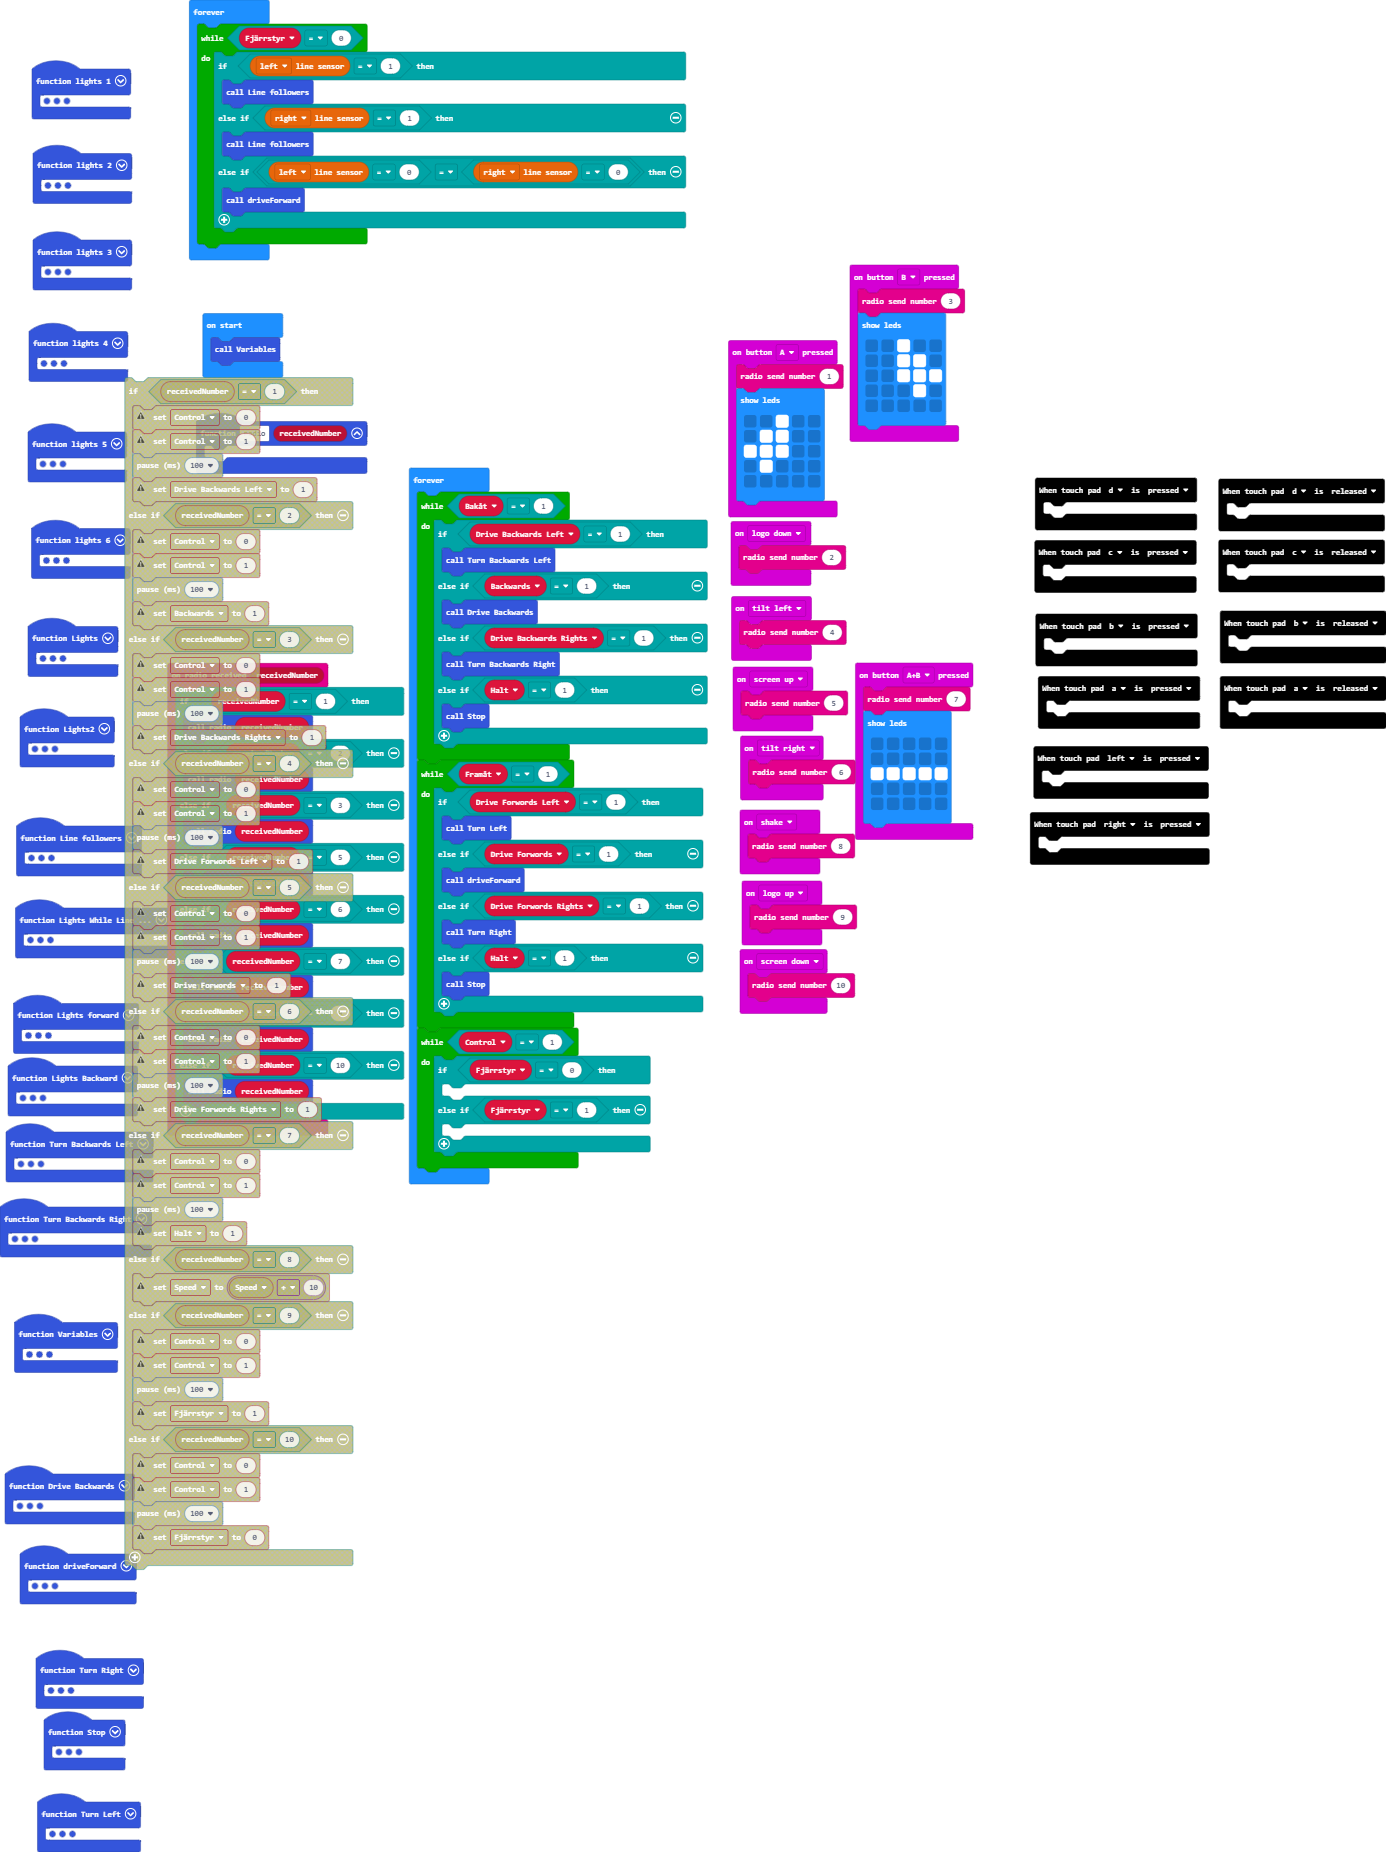
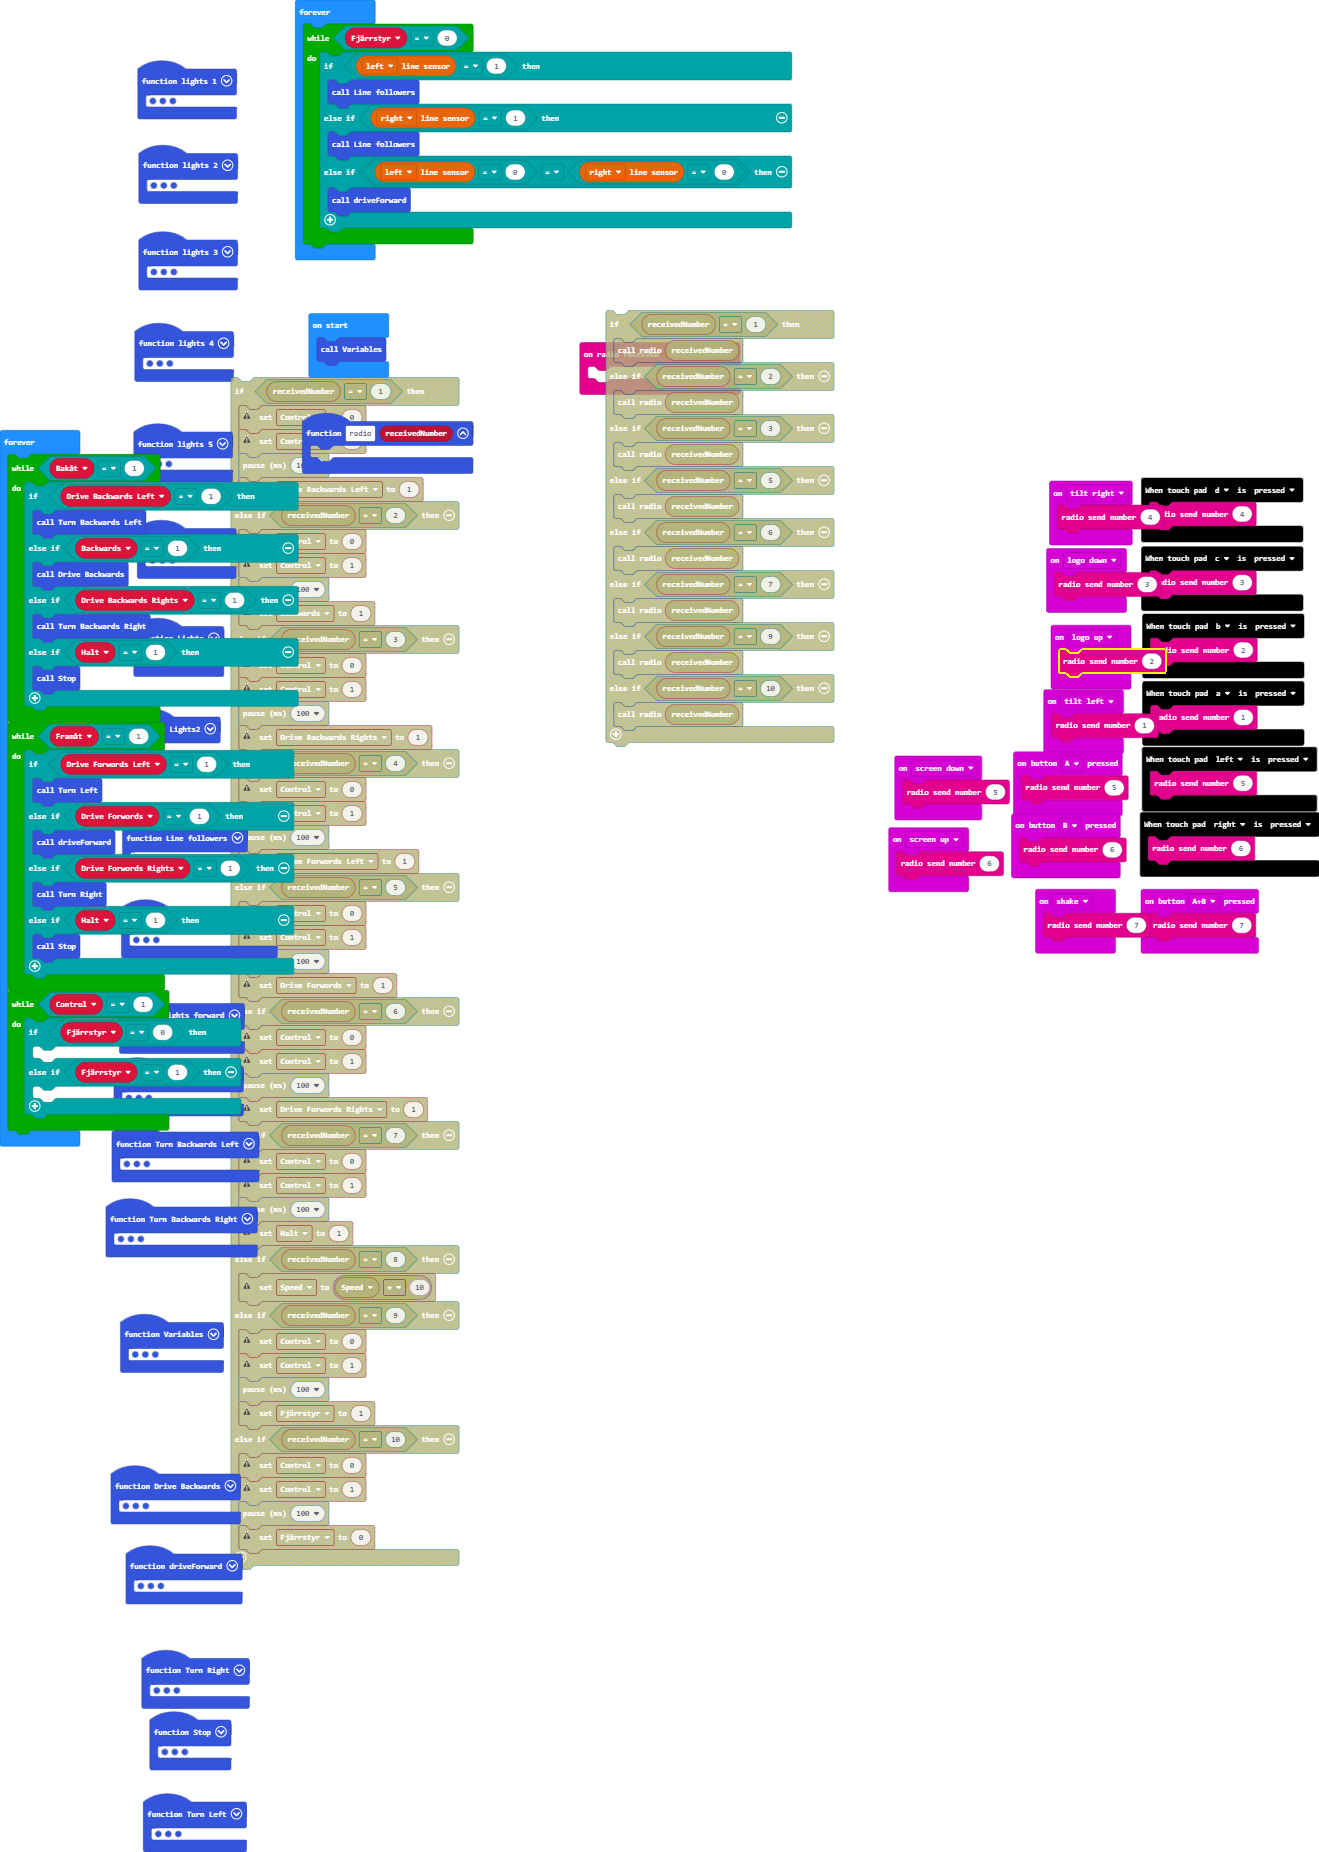
fjärrsyr klar

diff --git a/main.ts b/main.ts
@@ -50,23 +50,7 @@ function lights_6 () {
     bitbot.ledClear()
 }
 radio.onReceivedNumber(function (receivedNumber) {
-    if (receivedNumber == 1) {
-        radio2(receivedNumber)
-    } else if (receivedNumber == 2) {
-        radio2(receivedNumber)
-    } else if (receivedNumber == 3) {
-        radio2(receivedNumber)
-    } else if (receivedNumber == 5) {
-        radio2(receivedNumber)
-    } else if (receivedNumber == 6) {
-        radio2(receivedNumber)
-    } else if (receivedNumber == 7) {
-        radio2(receivedNumber)
-    } else if (receivedNumber == 9) {
-        radio2(receivedNumber)
-    } else if (receivedNumber == 10) {
-        radio2(receivedNumber)
-    }
+	
 })
 function lights_1 () {
     bitbot.setPixelColor(0, 0x659900)
@@ -75,7 +59,7 @@ function lights_1 () {
     bitbot.ledClear()
 }
 touchbit.on(touchbit.TouchPad.b, touchbit.TouchEvent.pressed, function () {
-	
+    radio.sendNumber(2)
 })
 function Lights_Backward () {
     for (let index = 0; index < 2; index++) {
@@ -99,18 +83,8 @@ function lights_3 () {
     basic.pause(200)
     bitbot.ledClear()
 }
-touchbit.on(touchbit.TouchPad.c, touchbit.TouchEvent.released, function () {
-	
-})
 input.onButtonPressed(Button.A, function () {
-    radio.sendNumber(1)
-    basic.showLeds(`
-        . . # . .
-        . # # . .
-        # # # . .
-        . # . . .
-        . . . . .
-        `)
+    radio.sendNumber(5)
 })
 function Line_followers () {
     for (let index = 0; index < 1e+103; index++) {
@@ -126,7 +100,7 @@ function Line_followers () {
     }
 }
 input.onGesture(Gesture.LogoUp, function () {
-    radio.sendNumber(9)
+    radio.sendNumber(2)
 })
 function Lights () {
     lights_1()
@@ -158,10 +132,10 @@ function Turn_Left () {
     bitbot.stop(BBStopMode.Brake)
 }
 touchbit.on(touchbit.TouchPad.d, touchbit.TouchEvent.pressed, function () {
-	
+    radio.sendNumber(4)
 })
 input.onGesture(Gesture.TiltLeft, function () {
-    radio.sendNumber(4)
+    radio.sendNumber(1)
 })
 function Lights2 () {
     lights_6()
@@ -172,32 +146,25 @@ function Lights2 () {
     lights_1()
 }
 input.onGesture(Gesture.ScreenUp, function () {
-    radio.sendNumber(5)
+    radio.sendNumber(6)
 })
 touchbit.on(touchbit.TouchPad.right, touchbit.TouchEvent.pressed, function () {
-	
+    radio.sendNumber(6)
 })
 touchbit.on(touchbit.TouchPad.left, touchbit.TouchEvent.pressed, function () {
-	
+    radio.sendNumber(5)
 })
 function radio2 (receivedNumber: number) {
 	
 }
 input.onGesture(Gesture.ScreenDown, function () {
-    radio.sendNumber(10)
+    radio.sendNumber(5)
 })
 touchbit.on(touchbit.TouchPad.c, touchbit.TouchEvent.pressed, function () {
-	
+    radio.sendNumber(3)
 })
 input.onButtonPressed(Button.AB, function () {
     radio.sendNumber(7)
-    basic.showLeds(`
-        . . . . .
-        . . . . .
-        # # # # #
-        . . . . .
-        . . . . .
-        `)
 })
 function lights_2 () {
     bitbot.setPixelColor(1, 0x659900)
@@ -206,17 +173,10 @@ function lights_2 () {
     bitbot.ledClear()
 }
 input.onButtonPressed(Button.B, function () {
-    radio.sendNumber(3)
-    basic.showLeds(`
-        . . # . .
-        . . # # .
-        . . # # #
-        . . . # .
-        . . . . .
-        `)
+    radio.sendNumber(6)
 })
 input.onGesture(Gesture.Shake, function () {
-    radio.sendNumber(8)
+    radio.sendNumber(7)
 })
 function driveForward () {
     Lights_forward()
@@ -231,13 +191,10 @@ function driveForward () {
     bitbot.go(BBDirection.Forward, Speed)
 }
 input.onGesture(Gesture.TiltRight, function () {
-    radio.sendNumber(6)
-})
-touchbit.on(touchbit.TouchPad.d, touchbit.TouchEvent.released, function () {
-	
+    radio.sendNumber(4)
 })
 input.onGesture(Gesture.LogoDown, function () {
-    radio.sendNumber(2)
+    radio.sendNumber(3)
 })
 function lights_5 () {
     bitbot.setPixelColor(4, 0x659900)
@@ -246,7 +203,7 @@ function lights_5 () {
     bitbot.ledClear()
 }
 touchbit.on(touchbit.TouchPad.a, touchbit.TouchEvent.pressed, function () {
-	
+    radio.sendNumber(1)
 })
 function Turn_Backwards_Left () {
     bitbot.stop(BBStopMode.Brake)
@@ -295,9 +252,6 @@ function Drive_Backwards () {
         `)
     bitbot.go(BBDirection.Reverse, Speed)
 }
-touchbit.on(touchbit.TouchPad.b, touchbit.TouchEvent.released, function () {
-	
-})
 function Lights_While_Line_folowers_on () {
     for (let index3 = 0; index3 <= 11; index3++) {
         bitbot.setPixelColor(index3, 0xFF0000)
@@ -321,9 +275,6 @@ function Variables () {
     Speed = 10
     Fjärrstyr = 0
 }
-touchbit.on(touchbit.TouchPad.a, touchbit.TouchEvent.released, function () {
-	
-})
 let Fjärrstyr = 0
 let Halt = 0
 let Drive_Forwords_Rights = 0
